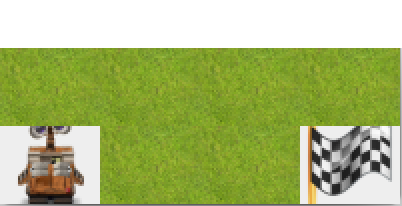
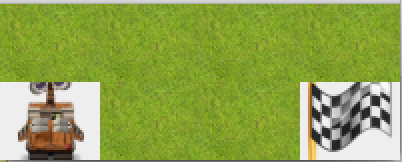
replacing level1 pic

diff --git a/src/testMain.java b/src/testMain.java
@@ -6,7 +6,7 @@ public class testMain {
 
 		try {
 			// initiate a new world
-			World myWorld = new World("myInputFile4.txt", false);
+			World myWorld = new World("myInputFile1.txt", false);
 			myWorld.createGUI(50 * myWorld.numCols(), 50 * myWorld.numRows(), 1);
 
 			// initiate a new robot
@@ -17,7 +17,7 @@ public class testMain {
 			// add robot to the world
 			myRobot.addToWorld(myWorld);
 
-			myRobot.travelToDestination();
+//			myRobot.travelToDestination();
 
 		} catch (Exception e) {
 			e.printStackTrace();
